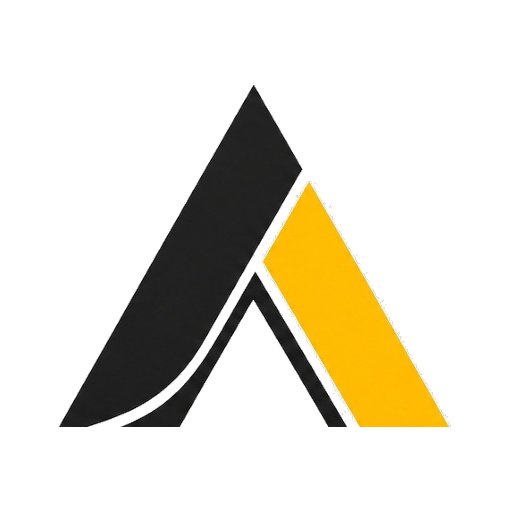
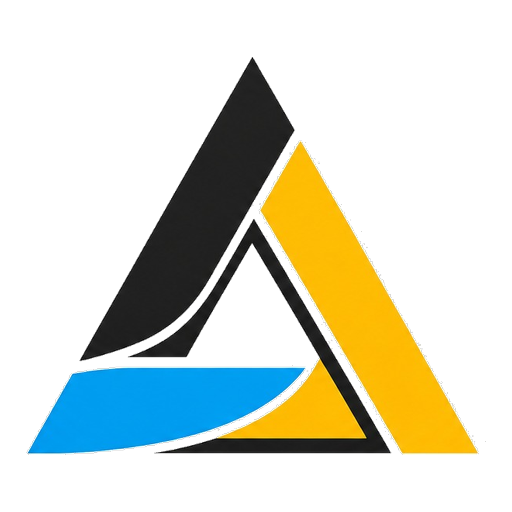
fix(mobile): restore full equilateral Delta triangle base and corners (100% complete emblem)

Changed region(s): [[0.0312, 0.0938, 0.9375, 0.9062]]

diff --git a/mobile/lib/screens/splash_screen.dart b/mobile/lib/screens/splash_screen.dart
@@ -294,14 +294,14 @@ class _SplashScreenState extends State<SplashScreen> with TickerProviderStateMix
                     children: [
                       // Dual Orbital Rings + Delta Prism Card
                       SizedBox(
-                        width: 220,
-                        height: 220,
+                        width: 240,
+                        height: 240,
                         child: Stack(
                           alignment: Alignment.center,
                           children: [
                             // Outer Gimbal Radar Rings & Sonar Pings
                             CustomPaint(
-                              size: const Size(220, 220),
+                              size: const Size(240, 240),
                               painter: _OrbitalRadarPainter(
                                 angle: _radarController.value * 2 * math.pi,
                                 pulseProgress: _masterController.value,
@@ -312,38 +312,38 @@ class _SplashScreenState extends State<SplashScreen> with TickerProviderStateMix
                             Transform.scale(
                               scale: _coreScaleAnim.value,
                               child: Container(
-                                width: 124,
-                                height: 124,
+                                width: 140,
+                                height: 140,
                                 decoration: BoxDecoration(
-                                  color: const Color(0xFF0B132B).withValues(alpha: 0.85),
-                                  borderRadius: BorderRadius.circular(26),
+                                  color: const Color(0xFF0B132B).withValues(alpha: 0.90),
+                                  borderRadius: BorderRadius.circular(28),
                                   border: Border.all(
                                     color: const Color(0xFF00F5D4).withValues(
-                                      alpha: 0.8 * _coreGlowAnim.value,
+                                      alpha: 0.85 * _coreGlowAnim.value,
                                     ),
                                     width: 1.8,
                                   ),
                                   boxShadow: [
                                     BoxShadow(
                                       color: const Color(0xFF00F5D4).withValues(
-                                        alpha: 0.35 * _coreGlowAnim.value,
+                                        alpha: 0.40 * _coreGlowAnim.value,
                                       ),
-                                      blurRadius: 32,
+                                      blurRadius: 36,
                                       spreadRadius: 2,
                                     ),
                                     const BoxShadow(
                                       color: Colors.black,
                                       offset: Offset(0, 12),
-                                      blurRadius: 20,
+                                      blurRadius: 22,
                                     ),
                                   ],
                                 ),
                                 child: Stack(
                                   alignment: Alignment.center,
                                   children: [
-                                    // 100% Pure Vector-Cropped Emblem (No text fragments)
+                                    // 100% Complete Pure Triangle Emblem
                                     Padding(
-                                      padding: const EdgeInsets.all(18.0),
+                                      padding: const EdgeInsets.all(14.0),
                                       child: Image.asset(
                                         'assets/images/delta_emblem.png',
                                         fit: BoxFit.contain,
@@ -352,9 +352,9 @@ class _SplashScreenState extends State<SplashScreen> with TickerProviderStateMix
 
                                     // Dynamic Laser Scanning Line Sweep
                                     ClipRRect(
-                                      borderRadius: BorderRadius.circular(24),
+                                      borderRadius: BorderRadius.circular(26),
                                       child: CustomPaint(
-                                        size: const Size(124, 124),
+                                        size: const Size(140, 140),
                                         painter: _LaserScanLinePainter(
                                           progress: _scannerController.value,
                                         ),
@@ -363,7 +363,7 @@ class _SplashScreenState extends State<SplashScreen> with TickerProviderStateMix
 
                                     // Corner HUD Micro-Brackets
                                     const CustomPaint(
-                                      size: Size(124, 124),
+                                      size: Size(140, 140),
                                       painter: _CornerBracketsPainter(),
                                     ),
                                   ],
@@ -617,7 +617,7 @@ class _OrbitalRadarPainter extends CustomPainter {
     final center = Offset(size.width / 2, size.height / 2);
 
     // 1. Expanding Sonar Shockwave Ping
-    final pingRadius = 65.0 + (45.0 * (pulseProgress % 1.0));
+    final pingRadius = 75.0 + (40.0 * (pulseProgress % 1.0));
     final pingOpacity = (1.0 - (pulseProgress % 1.0)).clamp(0.0, 1.0);
     final pingPaint = Paint()
       ..color = const Color(0xFF00F5D4).withValues(alpha: 0.45 * pingOpacity)
@@ -634,7 +634,7 @@ class _OrbitalRadarPainter extends CustomPainter {
       ..color = const Color(0xFF1E3A5F).withValues(alpha: 0.7)
       ..style = PaintingStyle.stroke
       ..strokeWidth = 1.0;
-    canvas.drawCircle(Offset.zero, 95, outerRingPaint);
+    canvas.drawCircle(Offset.zero, 105, outerRingPaint);
 
     // Cardinal tick marks
     final tickPaint = Paint()
@@ -644,8 +644,8 @@ class _OrbitalRadarPainter extends CustomPainter {
     for (int i = 0; i < 12; i++) {
       final rad = (i * 30) * math.pi / 180;
       final isCardinal = (i % 3 == 0);
-      final r1 = isCardinal ? 90.0 : 93.0;
-      const r2 = 97.0;
+      final r1 = isCardinal ? 100.0 : 103.0;
+      const r2 = 108.0;
 
       canvas.drawLine(
         Offset(math.cos(rad) * r1, math.sin(rad) * r1),
@@ -668,7 +668,7 @@ class _OrbitalRadarPainter extends CustomPainter {
     for (int i = 0; i < 8; i++) {
       final startAngle = (i * 45) * math.pi / 180;
       canvas.drawArc(
-        Rect.fromCircle(center: Offset.zero, radius: 76),
+        Rect.fromCircle(center: Offset.zero, radius: 84),
         startAngle,
         20 * math.pi / 180,
         false,
